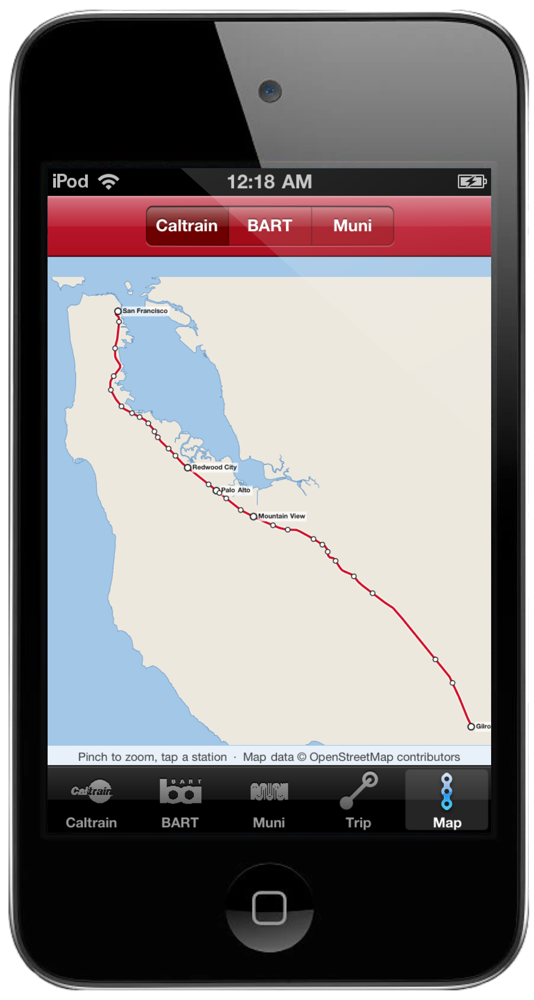
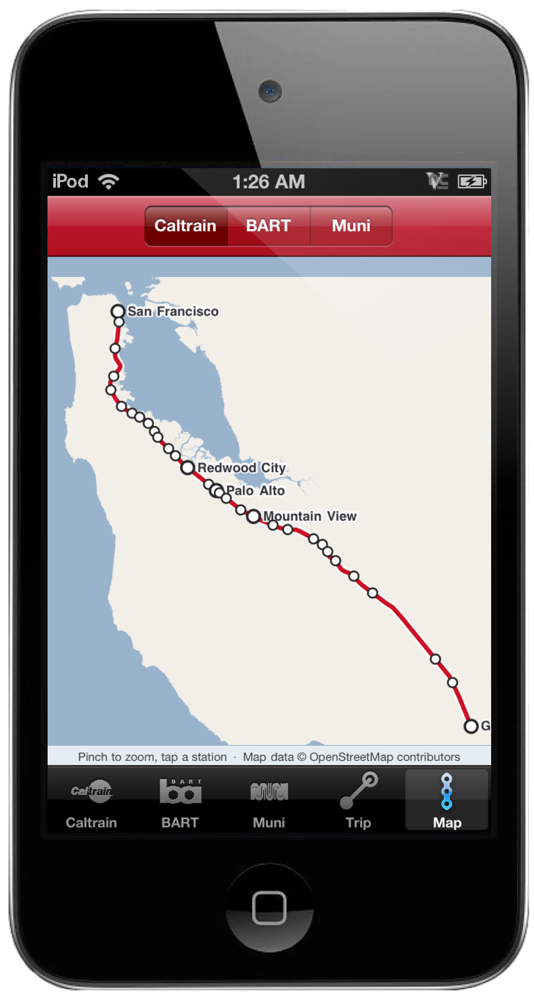
Site: map screenshots from iOS 5 with the new tile palette
Claude-Session: https://claude.ai/code/session_01BivNT7AHmqnGRVDqSF16xf

diff --git a/site/nexttrain.html b/site/nexttrain.html
@@ -26,7 +26,7 @@
   <div class="feature flip"><div class="pic"><img src="img/trainrun-device.png" alt="Run for it?"></div><div class="txt"><h3>Run for it?</h3><p>Tap a train leaving in the next ten minutes and Laya weighs the minutes, your walk to the platform and when the next one comes. Run, jog, or let it go, with a percentage so you can argue with it. Service alerts sit at the top of the board and the trip planner.</p></div></div>
   <div class="feature"><div class="pic"><img src="img/trainask-device.png" alt="Just say it"></div><div class="txt"><h3>Just say it.</h3><p>"sf to mountain view, be there by 6." OpenRelay reads it, fills in the stations and the time, and the timetable does the rest. No typing station names into boxes.</p></div></div>
   <div class="feature flip"><div class="pic"><img src="img/traintrips-device.png" alt="Trip results"></div><div class="txt"><h3>Leave at. Arrive by.</h3><p>Every train that gets you there, with the ride time, the number of stops and the Clipper fare. Tap one for the full stop list.</p></div></div>
-  <div class="feature"><div class="pic"><img src="img/trainmap-device.png" alt="The Bay on a map"></div><div class="txt"><h3>The whole Bay, <em>on a map.</em></h3><p>A real map of the Bay drawn from OpenStreetMap shoreline, with the Caltrain track, every BART line in its color, and the six Muni Metro lines. Pinch to zoom, tap any station and its board slides in. No tiles to download, so it works in a tunnel.</p></div></div>
+  <div class="feature"><div class="pic"><img src="img/trainmap-device.png" alt="The Bay on a map"></div><div class="txt"><h3>The whole Bay, <em>on a map.</em></h3><p>A real map of the Bay drawn from OpenStreetMap shoreline in the colors of the old Maps tiles, with the Caltrain track, every BART line in its color, and the six Muni Metro lines. Pinch to zoom, tap any station and its board slides in. No tiles to download, so it works in a tunnel.</p></div></div>
   <div class="feature flip"><div class="pic"><img src="img/trainmapbart-device.png" alt="BART lines on the map"></div><div class="txt"><p><img src="img/logo-bart.png" alt="BART" height="40"></p><h3>Every BART train. <em>Every minute.</em></h3><p>Pick any of the 50 stations and the board fills with the next trains, the line color, platform, car count and how late it's running. It refreshes itself every minute while you look at it. Plan a trip and BART's own planner answers with transfers and the Clipper fare. Every line is on the map in its color, and tapping a station opens its board.</p></div></div>
   <div class="feature"><div class="pic"><img src="img/trainmetro-device.png" alt="The N Judah stop list"></div><div class="txt"><p><img src="img/logo-muni.png" alt="Muni" height="40"></p><h3>Muni Metro, <em>and your stops.</em></h3><p>J, K, L, M, N and T with every stop in order, tap one for the next trains and save it. Or type the stop number from the pole and it's on your board for good, with the next arrivals for every line that stops there. Buses, Metro, cable cars. All 3,240 stop names are built in so you know you typed the right one.</p></div></div>
   <div class="buy"><a class="btn" href="NextTrain-1.0.ipa">Download Next Train</a><small>Version 1.0. 180 KB. Caltrain timetable and the Bay map built in, timetable valid through January 2027. BART is live with no setup. Caltrain live times and Muni need a free token from 511.org. <a href="https://github.com/mannanshukla/nexttrain-ios4">Source on GitHub</a>.</small></div>
